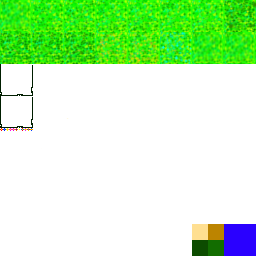
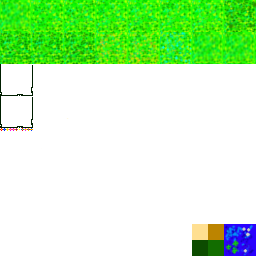
working on infinite generation, not there yet. also added trees lol

Changed region(s): [[0.875, 0.875, 1.0, 1.0]]

diff --git a/Dam-It-Mr-Beaver/Map.cpp b/Dam-It-Mr-Beaver/Map.cpp
@@ -7,13 +7,12 @@ Map::~Map() {
 }
 void Map::initializeTiles() {
 	//sizeofpicture is me figuring out how big each tile is in the texture pack, will be better when we have photoshop
-	
+
 	if (!tileTexture.loadFromFile("res/grasstest2.png")) {
 		printf("Could not load tile spritesheet");
 	}
 	int x = 0;
 	int y = 0;
-	
 	rect.height = sizeofpicture;
 	rect.width = sizeofpicture;
 	rect.left = 0;
@@ -34,9 +33,26 @@ void Map::initializeTiles() {
 		}
 		rect.left = x * sizeofpicture;
 	}
-	x = 0; 
+	x = 0;
 	y = 0;
-	for (int i = 0; i < numberOfRiverTiles; i++) {
+	for (int i = 0; i < numberOfTreeTiles; i++) { //setup tree sprites
+		sf::Sprite * tempTileSprite = new sf::Sprite;
+		tempTileSprite->setTexture(tileTexture);
+		rect.left = (12 * sizeofpicture) + x * sizeofpicture;
+		rect.top = (14 * sizeofpicture) + y * sizeofpicture;
+		tempTileSprite->setTextureRect(rect);
+		tempTileSprite->scale(scaleValue, scaleValue);
+		tileSprites.push_back(tempTileSprite);
+		x++;
+		if (x >= 2) {
+			x = 0;
+			y++;
+			rect.top = y * sizeofpicture;
+		}
+	}
+	x = 0;
+	y = 0;
+	for (int i = 0; i < numberOfRiverTiles; i++) { //setup river sprites
 		sf::Sprite * tempTileSprite = new sf::Sprite;
 		tempTileSprite->setTexture(tileTexture); //possibly can do this outside the for loop, unsure though
 
@@ -53,8 +69,11 @@ void Map::initializeTiles() {
 		}
 
 	}
+	
+	
 	for (int i = 0; i < mapWidth; i++) {
-		for (int j = 0; j < mapHeight; j++) {
+		for (int j = 0; j < mapHeight; j++) { //do the initial tile render. out of date but will use for now.
+			tileRendered[{i, j}] = true;
 			int tileID = rand() % numberOfGrassTiles;//gives a value between 0 and the number of tile types
 			Tile * tempTile = new Tile(tileID);
 
@@ -62,88 +81,46 @@ void Map::initializeTiles() {
 		}
 	}
 
-	/* killing all of this, was old an innefecient. will delete when other thing twerks. 
-	for (float i = 0; i < mapHeight; i += 1) {
-		for (float j = 0; j < mapWidth; j += 1) {
-
-			int tileID = (rand() % numberOfGrassTileTypes);//gives a value between 0 and the number of tile types
-
-			int x = tileID;
-			int y = 0;
-
-			//if there are, say, 64 tiles, we need a way to get to a tile in the middle.
-			//of a texture pack that's 8 by 8. if we get tile number 27, a tile in the 4th row,
-			//we go tile 27 which is greater than 8, 19 is greater than 8, 11, 3. we know the tile is 3 from the right. we also know it's 3 down (first row is 0 down)
-			//bam, we have the right tile. 
-			while (x >= howmanyinrow) {
-				x -= howmanyinrow;
-				y += 1;
-			}
-
-			sf::IntRect reect(x * sizeofpicture, y * sizeofpicture, sizeofpicture, sizeofpicture);
-			
-			Tile * tempTile = new Tile("res/grasstest2.png", reect);
-			tempTile->sprite.setPosition(j* sizeofpicture * scaleValue, i* sizeofpicture * scaleValue);
-			tempTile->sprite.scale(scaleValue, scaleValue);
-			//tempTile->initiateFlowers(); //set up the flowers of r that tile. commented out to reduce lag?
-			Tiles[{j, i}] = tempTile;
-			/*
-				for (float k = i * sizeofpicture; k < i* sizeofpicture + sizeofpicture; k += heightofflower) { //iterate from the top to the bottom of the current tile (i is top)
-
-					for (float l = j *sizeofpicture; l < j*sizeofpicture + sizeofpicture; l += widthofflower) {//go from left to right at that current lenght checking for flower 
-
-						flowerCheck[{l, k}] = false;
-						//cout << tempTile->flowerLocations.at({ l, k }) << endl;
-						if (tempTile->flowerLocations.at({ l, k }) != -1) { //if there is a flower there
-							//cout << "yee" << endl;
-							sf::IntRect reect(tempTile->flowerLocations.at({ l, k }) * widthofflower, 4 * sizeofpicture, widthofflower, heightofflower); //find the sprite location for that flower
-							Tile * tempTile2 = new Tile("res/grasstest2.png", reect); //and make a new tile for that flower
-							tempTile2->sprite.setPosition(l * scaleValue, k  * scaleValue);
-							tempTile2->sprite.scale(scaleValue, scaleValue);
-							flowerTiles[{l, k}] = tempTile2;
-							flowerCheck[{l, k}] = true;
-						}
-					}
-				
-			}
-			
-		}
-		
-	}
-	*/
 	River * river1 = new River(8, 8, 9, 9,
 	{ 1, 1, 1, 1, 1, 1, 1, 1,
-	  0, 0, 0, 0, 0, 0, 1, 1, 
-      1, 1, 1, 1, 1, 0, 1, 1,
+	  0, 0, 0, 0, 0, 0, 1, 1,
+	  1, 1, 1, 1, 1, 0, 1, 1,
 	  1, 0, 0, 0, 0, 0, 1, 1,
 	  1, 0, 1, 1, 1, 0, 1, 1,
 	  1, 0, 1, 1, 1, 0, 1, 1,
 	  1, 0, 0, 0, 0, 0, 1, 1,
-	  1, 1, 1, 1, 1, 1, 1, 1}); //remember that coordinates start at 0, 0
-	  setupRiver(river1); 
-
+	  1, 1, 1, 1, 1, 1, 1, 1 }); //remember that coordinates start at 0, 0
+	setupRiver(river1);
+	Tree * tree1 = new Tree(3, 3, 1, 1, { //position is for top left of the thing, not bot right
+		0, 2, 0,
+		2, 2, 2,
+		0, 1, 0
+	});
+	setupTree(tree1);	
 }  
 
 
 void Map::draw(sf::RenderTarget & target, sf::RenderStates states) const {
-	sf::Vector2<int> start;
-	sf::Vector2<int> end;
 
-	for (float i = 0; i < mapHeight; i += 1) {
-		for (float j = 0; j < mapWidth; j += 1) {
-			if (Tiles.at({ j, i })->shouldDraw) {
+	for (float i = playerPos.y - 9; i < playerPos.y + 9; i += 1) {
+		for (float j = playerPos.x - 10; j < playerPos.x + 10; j += 1) {
+			if (i >= 0 && j >= 0) {
+				cout << j << " " << i << endl;
 				tileSprites.at(Tiles.at({ j, i })->spriteID)->setPosition(j * sizeofpicture * scaleValue, i*  sizeofpicture * scaleValue);
-				target.draw(* tileSprites.at(Tiles.at({ j, i })->spriteID), states);
-			}
+
+				target.draw(*tileSprites.at(Tiles.at({ j, i })->spriteID), states);
+				cout << "Done" << endl;
+
 			}
 		}
 	}
+}
 void Map::whatTilesToDraw(sf::Vector2<int> playerPos) {
 	
 	for (float i = 0; i < mapHeight; i += 1) {
 		for (float j = 0; j < mapWidth; j += 1) {
 			Tiles.at({ j, i })->shouldDraw = false;
-			if (abs(playerPos.x - j) < 8 && abs(playerPos.y - i) < 7) { //change to 6 and 4 to test
+			if (abs(playerPos.x - j) < 10 && abs(playerPos.y - i) < 8.5) {
 				Tiles.at({ j, i })->shouldDraw = true;
 			}
 		}
@@ -156,12 +133,68 @@ void Map::setupRiver(River * river) {
 		for (int j = river->startCoordinate.x; j < river->startCoordinate.x + river->size.x; j += 1) {
 			
 			if (river->riverTiles.at(arraytracker) != 0) {
-				int tileID = rand() % numberOfRiverTiles + numberOfGrassTiles; //gives a number between 64 and 67, where the thing is in the sprites array
-				Tile * tempTile = new Tile(tileID);
-				Tiles[{j, i}] = tempTile; 
+				int tileID = rand() % numberOfRiverTiles + numberOfGrassTiles + numberOfTreeTiles; //gives a number between 64 and 67, where the thing is in the sprites array
+				Tiles[{j, i}]->spriteID = tileID;
 			}
 			arraytracker++;
 		}
 		
 	}
+}
+void Map::setupTree(Tree * tree) { 
+int arraytracker = 0;
+int tileID = 0;
+	for (int i = tree->startCoordinate.y; i < tree->startCoordinate.y + tree->size.y; i += 1) { //because the map coordinates and river size are in the same 1 per 1 tile system, += 1
+		//this one actual does have to do .y first, then .x to make the push_back system work nicely
+		for (int j = tree->startCoordinate.x; j < tree->startCoordinate.x + tree->size.x; j += 1) {
+			switch (tree->treeTiles.at(arraytracker)) {
+			case 0:
+				//cout << Tiles[{j, i}]->spriteID << endl;
+				break; //just don't change it, stay greeeeeen
+
+			case 1:
+				tileID = rand() % 2 + numberOfGrassTiles; //gives a number between 64 and 65, where the wood sprites are in the sprites array
+				
+				Tiles[{j, i}]->spriteID = tileID;
+				//cout << Tiles[{j, i}]->spriteID << endl;
+				break;
+			case 2:
+				tileID = rand() % 2 + numberOfGrassTiles + 2; //gives a number between 66 and 67, where the leaf sprites are in the sprites array
+				Tiles[{j, i}]->spriteID = tileID;
+				//cout << Tiles[{j, i}]->spriteID << endl;
+				break;
+			default :
+				cout << "added some new wood tiles, didya dummy" << endl;
+				break;
+			}
+			arraytracker++;
+		}		
+	}
+}
+void Map::renderMoreTiles(sf::Vector2<int> playerPos) { //basically every 15 frames this function renders the tiles in a 30x30 box around the player
+	int startx = playerPos.x - 15;
+	int starty = playerPos.y - 15;
+	int tileID = 0;
+	for (int i = startx; i < startx + 30; i++) { // go across the 30 by 30 box (left to right), render the top edges
+		if (i >= 0) {
+
+			tileID = rand() % numberOfGrassTiles;
+			Tile * tempTile = new Tile(tileID);
+			Tiles[{i, starty}] = tempTile; //this will overwrite rivers, trees. NEEDS FIX AHAHAGAHAHAHAh
+			tileID = rand() % numberOfGrassTiles;
+			Tile * tempTile2 = new Tile(tileID);
+			Tiles[{i, starty + 30}] = tempTile2;
+		}
+	}
+	for (int i = starty + 1; i < starty + 30 - 1; i++) {//go down the edges, do the edges. moved by 1 bc we do those corners in the above for loop
+		if (i >= 0) {
+			tileID = rand() % numberOfGrassTiles;
+			Tile * tempTile = new Tile(tileID);
+			Tiles[{startx, i}] = tempTile;
+			tileID = rand() % numberOfGrassTiles;
+			Tile * tempTile2 = new Tile(tileID);
+			Tiles[{startx + 30, i}] = tempTile2;
+		}
+	}
+	
 }

diff --git a/Dam-It-Mr-Beaver/Map.h b/Dam-It-Mr-Beaver/Map.h
@@ -1,9 +1,10 @@
 #pragma once
 #include "River.h"
-
+#include "Tree.h"
 const int mapHeight = 30;
 const int mapWidth = 30;
 const int numberOfGrassTiles = 64;
+const int numberOfTreeTiles = 4;
 const int numberOfRiverTiles = 4;
 const int numberOfFlowerTileTypes = 0;
 const int howmanyinrow = 16;
@@ -14,18 +15,21 @@ class Map : public sf::Drawable, public sf::Transformable
 public:
 	Map();
 	~Map();
-	
+	sf::Vector2<int> playerPos;
 	sf::IntRect rect;
 	sf::Texture tileTexture;
 	float timeSinceLastDrawCheck = 500; //this calculates how long it's been since the last tile location analysis. I think i'll do it once every 5 frames.
+	float timeSinceLastRenderCheck = 0; //this tracks how long it's been since we've checked to render more tiles. infinitiiiiiiiiiiiiiiiiiiiii
 	std::vector <Tile *> tempTiles;
 	//std::vector <Tile *> Tiles;
 	std::vector <sf::Sprite *> tileSprites;
 	std::map < std::tuple<int, int>, Tile *> Tiles;
+	std::map < std::tuple<int, int>, bool> tileRendered; //checks if we've rendered tiles at certain locations
 	std::map < std::tuple<float, float>, Tile *> flowerTiles;
-	std::map < std::tuple<float, float>, bool> flowerCheck; //this is to know if there is a flower at a location. very inefficient, should be fixed.
 	void initializeTiles();
+	void renderMoreTiles(sf::Vector2<int> playerPos);
 	void setupRiver(River * river);
+	void setupTree(Tree * tree); //as you can see, the tree and river setups are very similar. they could be merged into one master function, but that would require a lot of in function comparisons as the tiles grew in complexity. i think they should be seperate for now
 	void whatTilesToDraw(sf::Vector2<int> playerPos);
 	virtual void draw(sf::RenderTarget & target, sf::RenderStates states) const;
 

diff --git a/Dam-It-Mr-Beaver/Game.cpp b/Dam-It-Mr-Beaver/Game.cpp
@@ -16,7 +16,6 @@ Player Game::player("res/bestbeaverisgodbeaver.png");
 Map Game::map;
 std::vector<int> mine;
 
-
 //Temp//
 
 sf::Texture bgTexture;
@@ -68,6 +67,7 @@ void Game::Update() {
 		}
 	}
 	float speed = 500;
+	
 
 	//Player Input
 	sf::Vector2f velocity;
@@ -91,7 +91,7 @@ void Game::Update() {
 	gameWindow.clear(sf::Color(23, 230, 54, 255));
 
 	camera.setCenter(player.getPosition());
-
+	
 	//Camera is bounded so that if the player goes to the top left of the level, the camera stops following.
 	//This will be implemented for all corners once we have an actual background
 	if (camera.getCenter().x < width / 2)
@@ -104,12 +104,19 @@ void Game::Update() {
 	//gameWindow.draw(bgSprite);
 	gameWindow.draw(level);
 	////////
-	map.timeSinceLastDrawCheck += 1;
-	if (map.timeSinceLastDrawCheck >= 50) {
-		map.whatTilesToDraw(player.findIntegerPlayerPosition(player.getPosition()));
-		map.timeSinceLastDrawCheck = 0;
+	map.timeSinceLastDrawCheck ++;
+	//if (map.timeSinceLastDrawCheck >= 50) {
+		//map.whatTilesToDraw(player.findIntegerPlayerPosition(player.getPosition()));
+		//map.timeSinceLastDrawCheck = 0;
+	//}
+	map.timeSinceLastRenderCheck++;
+	if (map.timeSinceLastRenderCheck >= 15) {
+		sf::Vector2<int> tempPlayerPos = player.findIntegerPlayerPosition(player.getPosition());
+		map.renderMoreTiles(tempPlayerPos);
+		map.playerPos = tempPlayerPos; //update the playerpos stored internally in map for drawing purposes. 
+		
+		map.timeSinceLastRenderCheck = 0;
 	}
-
 	gameWindow.draw(map);	
 	gameWindow.draw(player);
 	

diff --git a/Dam-It-Mr-Beaver/Ideas.cpp b/Dam-It-Mr-Beaver/Ideas.cpp
@@ -1,3 +1,4 @@
 //something about a town and flooding it by removing the dam, ould be a cool ethical thing where flooding saves the beavers but murders a great number of people
 //extension of that, start of the game you spawn next to a huge circular river and you can't see the inside but you know your goal is to get over it
 //turns out it's the moat for  atown and you complete the mission but flood the town. then you can either rule the ruined town as beaver god or help rebuild.
+//game starts all innocent and soft, but as you go on you discover chainsasaws and the power of fire, eventually becoming beaver god

diff --git a/Dam-It-Mr-Beaver/Tree.h b/Dam-It-Mr-Beaver/Tree.h
@@ -1,7 +1,17 @@
 #pragma once
 #include "Tile.h"
 class Tree {
+public:
 	Tree(int width, int height, int startx, int starty, std::vector<int> IstartCoordinate);
+	sf::Vector2<int> size;
+	std::vector<int> treeTiles;
+	sf::Vector2<int> startCoordinate;
 	~Tree();
-
+	void cutDown();
+	enum treeStates {
+		Standing,
+		Fallen,
+		Sapling
+	};
+	treeStates treeState = Standing;
 };

diff --git a/Dam-It-Mr-Beaver/Tree.cpp b/Dam-It-Mr-Beaver/Tree.cpp
@@ -1,1 +1,8 @@
 #include "Tree.h"
+Tree::Tree(int width, int height, int startx, int starty, std::vector<int> IstartCoordinate) {
+	size.x = width;
+	size.y = height;
+	startCoordinate.x = startx;
+	startCoordinate.y = starty;
+	treeTiles = IstartCoordinate;
+}

diff --git a/Dam-It-Mr-Beaver/Game.h b/Dam-It-Mr-Beaver/Game.h
@@ -14,6 +14,7 @@ public:
 		Exiting
 	};
 
+	
 	static int Init();
 	static void Start();
 	static void Update();
